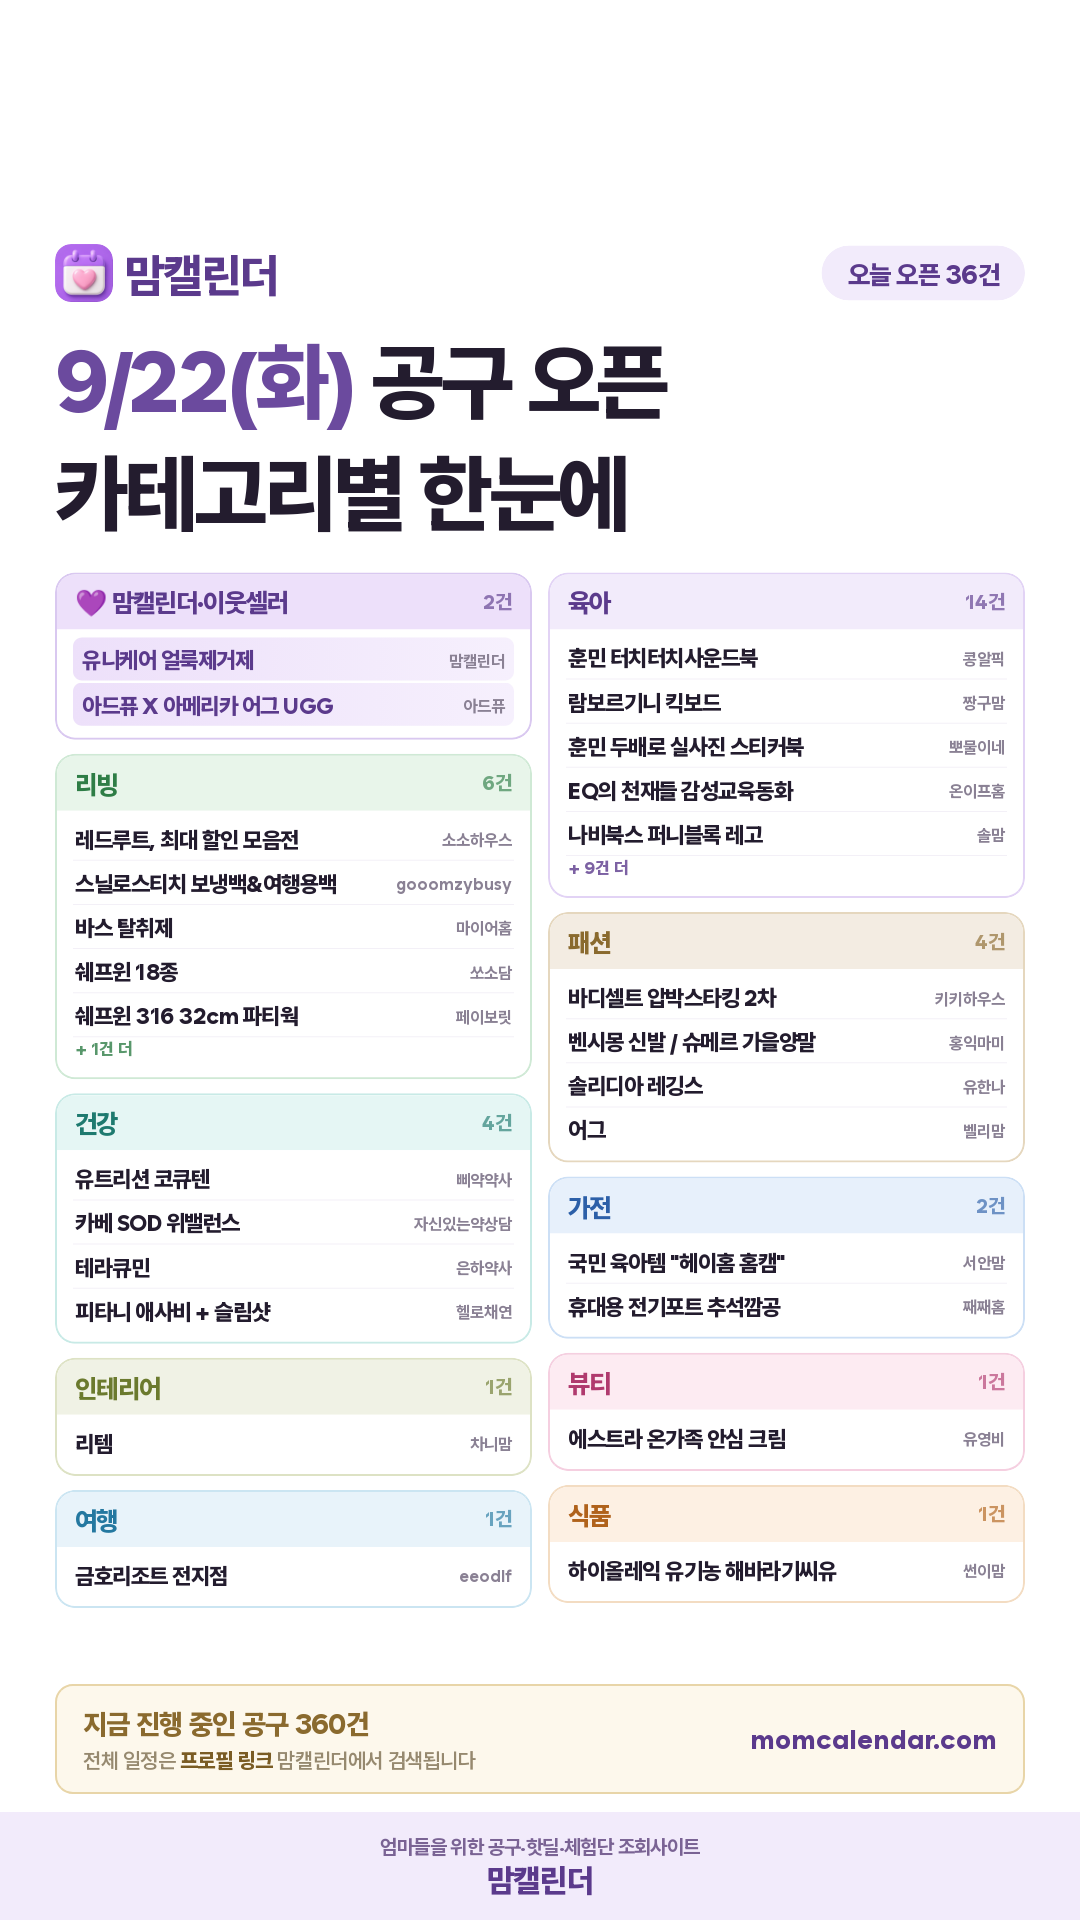
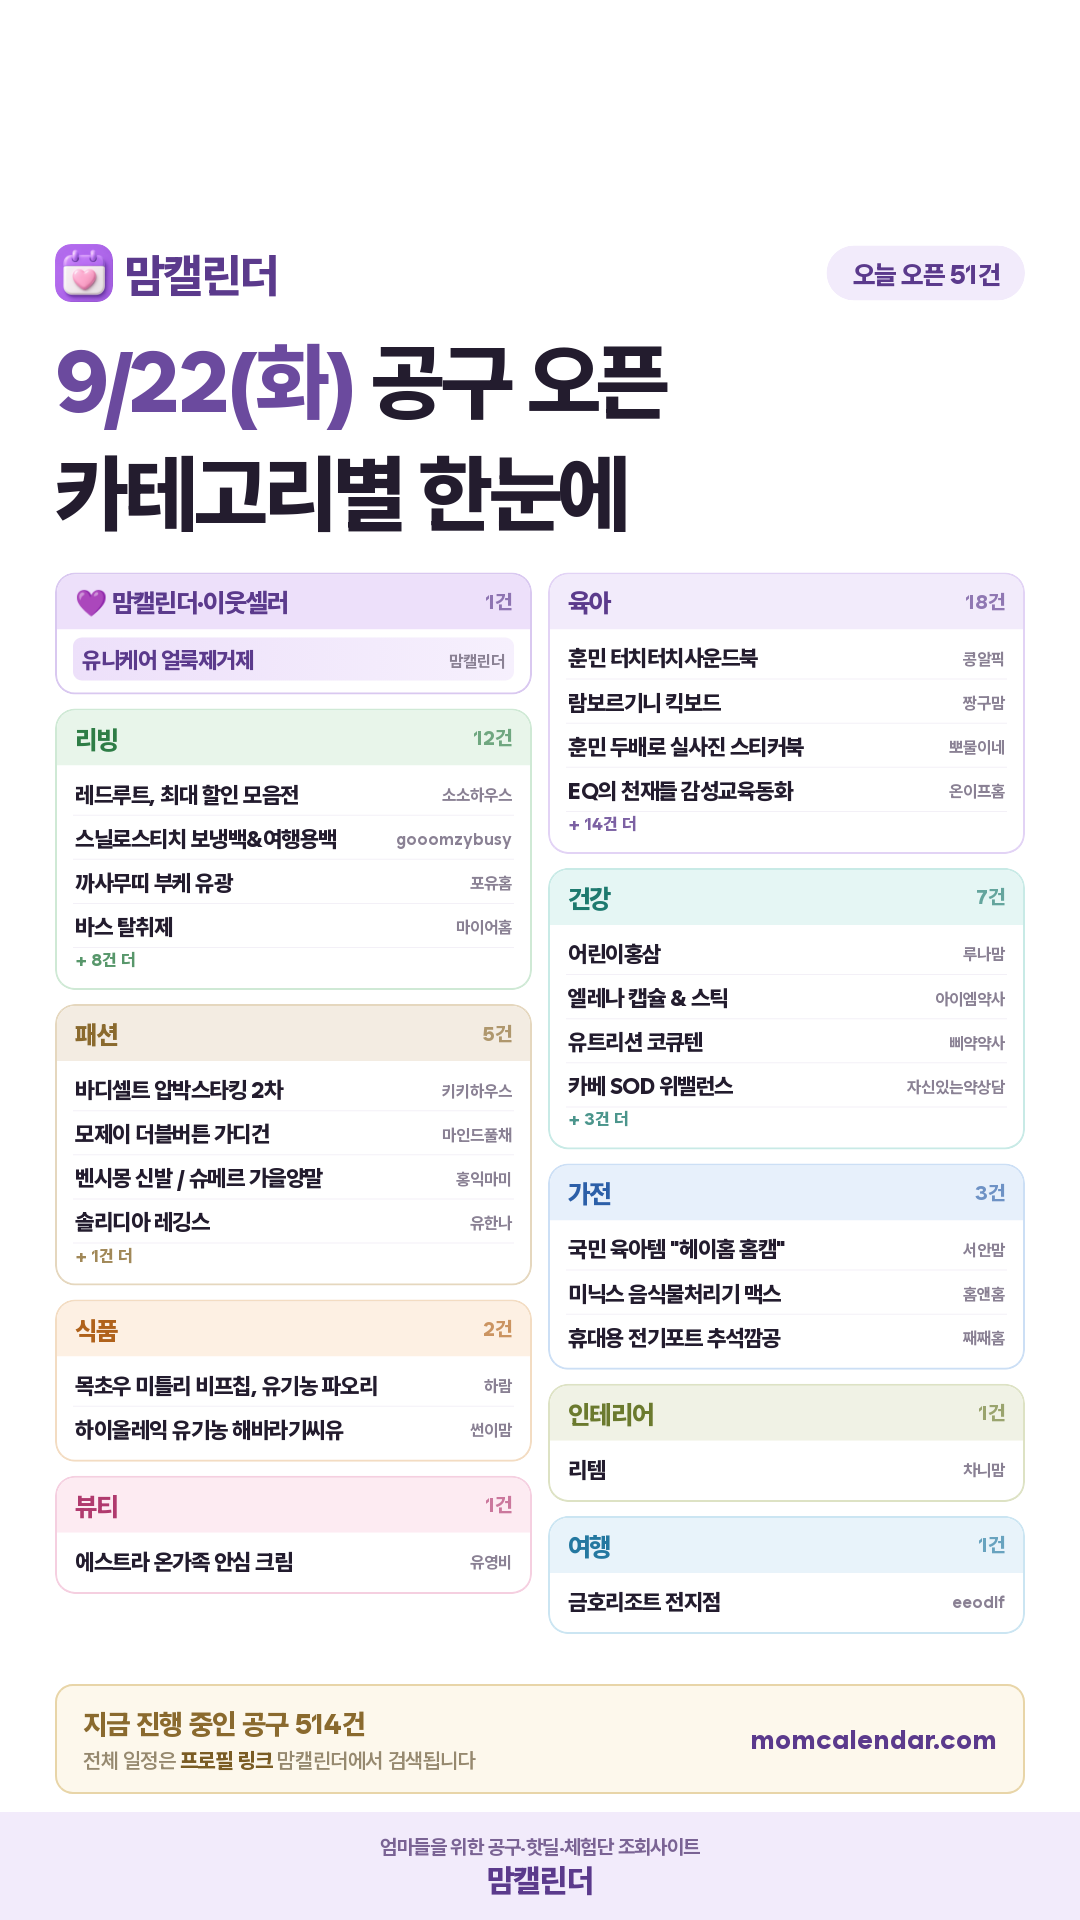
아침 인스타 카드 (2026-09-22)

Changed region(s): [[0.0306, 0.3438, 0.9472, 0.8438], [0.7944, 0.125, 0.9167, 0.1562], [0.275, 0.875, 0.3361, 0.9062]]

diff --git a/daily/2026-09-22.html b/daily/2026-09-22.html
@@ -19,7 +19,7 @@ textarea{width:100%;height:260px;border:1px solid #E3DCEF;border-radius:10px;pad
 .todo p{font-size:12.5px;color:#6B6379;line-height:1.75;margin-top:6px}
 .todo a{color:#5B2E8C;font-weight:700}
 </style></head><body>
-<div class="hd"><div class="wrap"><h1>9월 22일(화) 인스타 카드</h1><p>카테고리 일정 · opens 36 · ends 44</p></div></div>
+<div class="hd"><div class="wrap"><h1>9월 22일(화) 인스타 카드</h1><p>카테고리 일정 · opens 51 · ends 57</p></div></div>
 <div class="wrap">
   
   <div class="card"><img src="./2026-09-22.png" alt="오늘 공구 카드"></div>
@@ -27,13 +27,12 @@ textarea{width:100%;height:260px;border:1px solid #E3DCEF;border-radius:10px;pad
   <div class="card">
     <textarea id="cap" readonly>오늘 뭐 열리나 궁금하셨죠? 카테고리별로 정리했어요
 
-9월 22일(화) 공구 오픈 36건 · 마감 44건
+9월 22일(화) 공구 오픈 51건 · 마감 57건
 
 ━━━━━━━━━━━━━━
 
 💜 맘캘린더·이웃셀러
 · 유니케어 얼룩제거제 — 맘캘린더 @momcal_ (~9/25)
-· 아드퓨 X 아메리카 어그 UGG — 아드퓨 @atelier.de.purete (~9/28)
 
 🧸 육아
 · 훈민 터치터치사운드북 — 콩알픽 (~9/28)
@@ -44,36 +43,51 @@ textarea{width:100%;height:260px;border:1px solid #E3DCEF;border-radius:10px;pad
 · 또비앙또 미아방지가방 — 우유맘 (~9/25)
 · 래디어스 — 이준맘(이보람) (~9/25)
 · 리틀피기 가을 신상 런칭 — 두둥맘 (~9/27)
+· 바바북스 명화 랜덤2권 — 룰루맘 (~9/25)
+· 사파 플레이어 &amp; 슈심송·페파피그 DVD — 떠우엄마 (~9/28)
+· 아람 세계 명작 — 초초쌤 (~9/28)
+· 옴모크레용 6색 &amp; 12색 &amp; 스케치북 — 이현찰퐁맘 (~9/25)
 · 요거쪽쪽 — 산들맘 (~9/25)
-· 인라인 스케이트 — 리틀주니 (~9/28)
-· 주니 기저귀팬티 — 애프리 (~9/27)
-· 킨즈 마이베이비북 — 메이브온 (~9/25)
-· 킨즈n르베르 원목교구 — 리아곰 (~9/25)
-· 하우투캐치 — 류둥이네 (~9/25)
+…외 5건
 
 🏠 리빙
 · 레드루트, 최대 할인 모음전 — 소소하우스 (~9/23)
 · 스닐로스티치 보냉백&amp;여행용백 — gooomzybusy (~9/25)
+· 까사무띠 부케 유광 — 포유홈 (~9/26)
 · 바스 탈취제 — 마이어홈 (~9/27)
+· 바스 특별 — 베러심플 (~9/25)
 · 쉐프윈 18종 — 쏘소담 (~9/25)
 · 쉐프윈 316 32cm 파티웍 — 페이보릿 (~9/25)
+· 아이앤어스 3챔버&amp;독일더마 캡슐세제 — 셔니 (~9/25)
+· 알텐바흐 엑스쿠첸 316Ti 저압냄비 — 지니하우스 (~9/25)
+· 퍼기 무연마 스텐 설거지통+타공판 세트 — 마리에뜰 (~9/28)
 · 프로쉬 기획전 — 블즈 (~9/24)
+· N천원대 멀티나이프 — salguhome11 (~9/27)
+
+💊 건강
+· 어린이홍삼 — 루나맘 (~9/25)
+· 엘레나 캡슐 &amp; 스틱 — 아이엠약사 (~9/25)
+· 유트리션 코큐텐 — 삐약약사 (~9/28)
+· 카베 SOD 위밸런스 — 자신있는약상담 (~9/28)
+· 테라큐민 — 은하약사 (~9/28)
+· 트루엔 아르기닌 반값 — 남약사 (~9/28)
+· 피타니 애사비 + 슬림샷 — 헬로채연 (~9/28)
 
 👕 패션
 · 바디셀트 압박스타킹 2차 — 키키하우스 (~9/26)
+· 모제이 더블버튼 가디건 — 마인드풀채 (~9/25)
 · 벤시몽 신발 / 슈메르 가을양말 — 홍익마미 (~9/24)
 · 솔리디아 레깅스 — 유한나 (~9/29)
 · 어그 — 벨리맘 (~9/27)
 
-💊 건강
-· 유트리션 코큐텐 — 삐약약사 (~9/28)
-· 카베 SOD 위밸런스 — 자신있는약상담 (~9/28)
-· 테라큐민 — 은하약사 (~9/28)
-· 피타니 애사비 + 슬림샷 — 헬로채연 (~9/28)
-
 🔌 가전
 · 국민 육아템 "헤이홈 홈캠" — 서안맘 (~9/24)
+· 미닉스 음식물처리기 맥스 — 홈앤홈 (~9/24)
 · 휴대용 전기포트 추석깜공 — 째째홈 (~9/25)
+
+🍱 식품
+· 목초우 미틀리 비프칩, 유기농 파오리 — 하람 (~9/27)
+· 하이올레익 유기농 해바라기씨유 — 썬이맘 (~9/25)
 
 🛋 인테리어
 · 리템 — 차니맘 (~9/26)
@@ -84,40 +98,20 @@ textarea{width:100%;height:260px;border:1px solid #E3DCEF;border-radius:10px;pad
 ✈ 여행
 · 금호리조트 전지점 — eeodlf (~9/26)
 
-🍱 식품
-· 하이올레익 유기농 해바라기씨유 — 썬이맘 (~9/25)
-
 ⏰ 오늘 마감
 · 에디슨 젓가락 골라담기 — 서점맘
 · 망고라이언 — 또후니맘
 · 쉐프윈 쿡웨어 18종 — 쏘소담
-· 그릇 정리대 7차 — 메이비홈(박보연)
-· 디즈니 로브후드 샤워가운 — 온그리
-· 방수 네임스티커 — 태브로맘
+· 올스텐 스윙 빨래바구니 — 지니하우스
 · 큐빅스 교구장 — 리로네
+· 누비앤타보 트레블러M — 선유맘
+· 그릇 정리대 7차 — 메이비홈(박보연)
+· 방수 네임스티커 — 태브로맘
 · 탁가온 유아식기 — 도담맘
 · 100억 질 유산균 · 크랜베리 7차 — 묘약사
-· 구증구포 꿀 흑도라지정과 — 헬로채연
-· 꼼데가르송 스트라이프 셔츠 — mimiwor
-· 누비앤타보 트레블러M — 선유맘
-· 닌자 블렌드보스 — 마리에뜰
-· 닥터체크 오메가3 블랙 — 명훈약사
-· 대전 아쿠아리움 — Hello롱초
-· 더리틀스 코큐텐부스터 반값 — 남약사
-· 데코아르 감성 테크 3종으로 — 주부콩
-· 디베르노 보냉백팩 — 솔정
-· 또또뻥 2차 — 소은맘
-· 락앤락 데켓 그릇 겸 냄비 — 케이에이치집
-· 리틀콩 가을 실내복 — 뽀민맘
-· 미스터데코 청소도구함 — 미르홈
-· 바스 탈취제 시리즈 — 마마홈
-· 베투키 비타씨씨 4차 — 약파더
-· 보니버스 아기체육관 — 도아로운
-· 블랙앤데커 대용량 고속믹서기 — 축복맘
-· 슈메르 아기양말+스카프 — 서연맘
-· 시크릿키즈 가을옷 모음전 — 채쓰맘
-· 아리얼 클렌징 티슈 2차 — 마이어홈
-…외 15건
+· 26FW 신상품 성인/키즈 긴팔 잠옷 세트 — 밍융맘
+· 2탈모앰플+ 캡슐 — j.on___
+…외 45건
 
 
 ━━━━━━━━━━━━━━
@@ -138,12 +132,12 @@ textarea{width:100%;height:260px;border:1px solid #E3DCEF;border-radius:10px;pad
 ⚠ 공구 일정은 판매자 사정에 따라 변경·조기마감될 수 있어요.
 
 #맘캘린더 #공구일정 #육아공구 #9월22일공구 #오늘의공구 #육아정보 #공구오픈 #육아일상 #영양제 #아기간식 #놀잇감 #공구오픈일정</textarea>
-    <div class="meta">2183자</div>
+    <div class="meta">2167자</div>
     <button class="btn btn2" onclick="cp('cap','캡션')">캡션 복사</button>
   </div>
   <div class="card">
     <div class="meta" style="margin:0 0 8px;font-weight:800;color:#5B2E8C">네이버 블로그용 (blog.naver.com/momcal) — 수정해서 쓰셔도 돼요</div>
-    <textarea id="btitle" style="height:54px">9월 22일(화) 오늘의 공구 일정 총정리 | 휴대용 전기포트·애필리프 나트륨컷·유트리션·카베 공구 오픈</textarea>
+    <textarea id="btitle" style="height:54px">9월 22일(화) 오늘의 공구 일정 총정리 | 미닉스·휴대용·애필리프·어린이홍삼·엘레나 공구 오픈</textarea>
     <button class="btn btn2" onclick="cp('btitle','블로그 제목')">블로그 제목 복사</button>
     <textarea id="bbody" style="margin-top:9px">
 
@@ -170,10 +164,10 @@ https://open.kakao.com/o/gr2kJhCh
 
 ─────────────
 
-9월 22일(화), 오늘 문 여는 공동구매 38건이에요. 카테고리별로 보기 좋게 정리했어요.
-오늘 끝나는 공구가 58건이라 아래쪽도 같이 확인해 보세요.
+9월 22일(화), 오늘 문 여는 공동구매 54건이에요. 카테고리별로 보기 좋게 정리했어요.
+오늘 끝나는 공구가 73건이라 아래쪽도 같이 확인해 보세요.
 
-■ 오늘 오픈하는 공구 38건
+■ 오늘 오픈하는 공구 54건
 
 [육아]
 · EQ의 천재들 감성교육동화 — 온이프홈 (~9/27 마감)
@@ -182,6 +176,10 @@ https://open.kakao.com/o/gr2kJhCh
 · 람보르기니 킥보드 — 짱구맘 (~9/25 마감)
 · 래디어스 — 이준맘(이보람) (~9/25 마감)
 · 리틀피기 가을 신상 런칭 — 두둥맘 (~9/27 마감)
+· 바바북스 명화 랜덤2권 — 룰루맘 (~9/25 마감)
+· 사파 플레이어 &amp; 슈심송·페파피그 DVD — 떠우엄마 (~9/28 마감)
+· 아람 세계 명작 — 초초쌤 (~9/28 마감)
+· 옴모크레용 6색 &amp; 12색 &amp; 스케치북 — 이현찰퐁맘 (~9/25 마감)
 · 요거쪽쪽 — 산들맘 (~9/25 마감)
 · 인라인 스케이트 — 리틀주니 (~9/28 마감)
 · 주니 기저귀팬티 — 애프리 (~9/27 마감)
@@ -193,23 +191,33 @@ https://open.kakao.com/o/gr2kJhCh
 · 훈민 터치터치사운드북 — 콩알픽 (~9/28 마감)
 
 [리빙]
+· N천원대 멀티나이프 — salguhome11 (~9/27 마감)
+· 까사무띠 부케 유광 — 포유홈 (~9/26 마감)
 · 레드루트, 최대 할인 모음전 — 소소하우스 (~9/23 마감)
 · 바스 탈취제 — 마이어홈 (~9/27 마감)
+· 바스 특별 — 베러심플 (~9/25 마감)
 · 쉐프윈 18종 — 쏘소담 (~9/25 마감)
 · 쉐프윈 316 32cm 파티웍 — 페이보릿 (~9/25 마감)
 · 스닐로스티치 보냉백&amp;여행용백 — gooomzybusy (~9/25 마감)
-· 아드퓨 X 아메리카 어그 UGG — 아드퓨 (~9/28 마감)
+· 아이앤어스 3챔버&amp;독일더마 캡슐세제 — 셔니 (~9/25 마감)
+· 알텐바흐 엑스쿠첸 316Ti 저압냄비 — 지니하우스 (~9/25 마감)
 · 유니케어 얼룩제거제 — 맘캘린더 (~9/25 마감)
+· 퍼기 무연마 스텐 설거지통+타공판 세트 — 마리에뜰 (~9/28 마감)
 · 프로쉬 기획전 — 블즈 (~9/24 마감)
 
 [식품]
+· 목초우 미틀리 비프칩, 유기농 파오리 — 하람 (~9/27 마감)
 · 하이올레익 유기농 해바라기씨유 — 썬이맘 (~9/25 마감)
 
 [건강]
 · 애필리프 나트륨컷 — 유한나 (~9/29 마감)
+· 어린이홍삼 — 루나맘 (~9/25 마감)
+· 엘레나 캡슐 &amp; 스틱 — 아이엠약사 (~9/25 마감)
 · 유트리션 코큐텐 — 삐약약사 (~9/28 마감)
 · 카베 SOD 위밸런스 — 자신있는약상담 (~9/28 마감)
 · 테라큐민 — 은하약사 (~9/28 마감)
+· 트루엔 아르기닌 반값 — 남약사 (~9/28 마감)
+· 트루엔 아르기닌 퍼포먼스5000 — 남약사 (~9/28 마감)
 · 피타니 애사비 + 슬림샷 — 헬로채연 (~9/28 마감)
 
 [뷰티]
@@ -217,9 +225,11 @@ https://open.kakao.com/o/gr2kJhCh
 
 [가전]
 · 국민 육아템 "헤이홈 홈캠" — 서안맘 (~9/24 마감)
+· 미닉스 음식물처리기 맥스 — 홈앤홈 (~9/24 마감)
 · 휴대용 전기포트 추석깜공 — 째째홈 (~9/25 마감)
 
 [패션]
+· 모제이 더블버튼 가디건 — 마인드풀채 (~9/25 마감)
 · 바디셀트 압박스타킹 2차 — 키키하우스 (~9/26 마감)
 · 벤시몽 신발 / 슈메르 가을양말 — 홍익마미 (~9/24 마감)
 · 솔리디아 레깅스 — 유한나 (~9/29 마감)
@@ -231,8 +241,10 @@ https://open.kakao.com/o/gr2kJhCh
 [인테리어]
 · 리템 — 차니맘 (~9/26 마감)
 
-■ 오늘 끝나는 공구 58건
+■ 오늘 끝나는 공구 73건
 · 100억 질 유산균 · 크랜베리 7차 — 묘약사
+· 26FW 신상품 성인/키즈 긴팔 잠옷 세트 — 밍융맘
+· 2탈모앰플+ 캡슐 — j.on___
 · 구증구포 꿀 흑도라지정과 — 헬로채연
 · 그릇 정리대 7차 — 메이비홈(박보연)
 · 꼼데가르송 스트라이프 셔츠 — mimiwor
@@ -244,12 +256,16 @@ https://open.kakao.com/o/gr2kJhCh
 · 더리틀스 코큐텐부스터 반값 — 남약사
 · 데코아르 감성 테크 3종으로 — 주부콩
 · 데코아르 멜로우 비비드 무선 글라스 — 디유
+· 독일 마그네슘/칼디케이 — 시크드
+· 돌잡이 시리즈 — 서남매맘
 · 디베르노 보냉백팩 — 솔정
 · 디즈니 로브후드 샤워가운 — 온그리
 · 또또뻥 2차 — 소은맘
 · 락앤락 데켓 그릇 겸 냄비 — 케이에이치집
-· 리틀콩 가을 실내복 — 도현맘
 · 리틀콩 가을 실내복 — 뽀민맘
+· 리틀콩 가을 실내복 — 도현맘
+· 리틀콩 가을실내복 1만원초반 — 우리우
+· 맛있는 오일파스타 레시피 — 게으른김주부
 · 망고라이언 — 또후니맘
 · 미스터데코 청소도구함 — 미르홈
 · 바스 탈취제 — 디유
@@ -259,15 +275,18 @@ https://open.kakao.com/o/gr2kJhCh
 · 베투키 비타씨씨 4차 — 약파더
 · 보니버스 아기체육관 — 도아로운
 · 블랙앤데커 대용량 고속믹서기 — 축복맘
+· 송편 떡만들기 키트 — 희야
 · 쉐프윈 스마트쿠커 올인원 냄비 — 해나하우스
 · 쉐프윈 쿡웨어 18종 — 쏘소담
 · 슈메르 아기양말+스카프 — 서연맘
+· 스폰텍스 수세미 — 디유
 · 시크릿키즈 가을옷 모음전 — 채쓰맘
 · 아리얼 클렌징 티슈 2차 — 마이어홈
 · 에끌라뒤땅 물광앰플 — 선선부부하우스
 · 에디슨 모음전 — 라리맘
 · 에디슨 젓가락 골라담기 — 서점맘
 · 엔포드 호텔 — 우니동동
+· 오프아워 잠옷 — 쀼맘
 · 오하루 서리태 콩물 최화정두유 — 령아홈트
 · 올스텐 수세미거치대 — 라라홈
 · 올스텐 스윙 빨래바구니 — 지니하우스
@@ -275,30 +294,36 @@ https://open.kakao.com/o/gr2kJhCh
 · 우리아이 리포좀비타민C — 약파더
 · 위키드랩 — 유한나
 · 의왕 디스커버스 — eeodlf
+· 잼바라 디지털 현미경 — 포포네
 · 주니 입모아컵 — 도치맘
+· 주애*한스테이블 — 김주애
 · 짐샌더슨 롤링카트 — 윤우가자라는집
 · 찐티보리 — 선유맘
 · 착즙하는남자 — ming_9.3
-· 큐빅스 교구장 — 3__meow
 · 큐빅스 교구장 — 리로네
+· 큐빅스 교구장 — 3__meow
 · 크레욜라 모음전 — 니니맘
 · 클로란 드라이샴푸 — 쭈드레서
 · 키키유 오림대장 대모험 세트 — 서점맘
 · 탁가온 유아식기 — 도담맘
+· 티니핑 쓰기패드 — 쁨마미
 · 푸꾸옥 에어텔 — 제니져니
+· 퓨리톡스 세정티슈&amp;톡톡크림 — 아리홈
 · 퓨어젠 알래스카츄어블 오메가3 — 명훈약사
 · 플라워가든·오션월드 블럭 — 주환루아단아맘
 · 피토페시아 — 유한나
+· 하나코 도마 — 감감홈
 · 한우 수제 떡갈비 선물세트 — 꿍맘
+· 호주 어그 — 위캔드홈
 
-■ 오늘의 브랜드: 휴대용
-· 휴대용 공구는 인스타 셀러들이 기간을 정해 여는 공동구매예요. 최근에는 선유맘, 째째홈, 다니랑 님이 진행했어요.
+■ 오늘의 브랜드: 미닉스
+· 미닉스 공구는 인스타 셀러들이 기간을 정해 여는 공동구매예요. 최근에는 홈앤홈, 러브지나, 원살림 님이 진행했어요.
 · 가격은 오픈일에 셀러 계정 공지로 공개돼요. 같은 제품이라도 셀러·구성에 따라 조금씩 달라서, 공지에서 확인하는 게 가장 정확해요.
-· 이번에 놓쳤다면 너무 아쉬워하지 마세요. 휴대용 공구는 보통 일정 간격을 두고 다시 열려요. 전체 일정은 여기서 → https://momcalendar.com
+· 이번에 놓쳤다면 너무 아쉬워하지 마세요. 미닉스 공구는 보통 일정 간격을 두고 다시 열려요. 전체 일정은 여기서 → https://momcalendar.com
 
 ※ 수량이 빨리 소진되면 예정보다 일찍 닫히기도 해요. 관심 있는 공구는 오픈일에 바로 확인하시는 게 좋아요.
 
-#공구일정 #인스타공구 #인스타공구일정 #공동구매 #오늘의공구 #육아공구 #육아템 #공구모음 #휴대용공구 #애필리프공구 #유트리션공구 #카베공구 #테라큐민공구 #피타니공구 #레드루트공구 #바스공구</textarea>
+#공구일정 #인스타공구 #인스타공구일정 #공동구매 #오늘의공구 #육아공구 #육아템 #공구모음 #미닉스공구 #휴대용공구 #애필리프공구 #어린이홍삼공구 #엘레나공구 #유트리션공구 #카베공구 #테라큐민공구</textarea>
     <button class="btn" onclick="cp('bbody','블로그 본문 전체')">블로그 본문 전체 복사 (태그 포함)</button>
     <div class="meta">순서: 사진 저장 → 블로그 앱 글쓰기 → 제목 붙여넣기 → 본문 붙여넣기 → 본문 맨 위에 사진 추가 → 발행. 끝의 #태그들은 자동으로 태그가 돼요</div>
   </div>

diff --git a/daily/today.html b/daily/today.html
@@ -1,14 +1,15 @@
 <!DOCTYPE html><html lang="ko"><head>
 <meta charset="UTF-8"><meta name="viewport" content="width=device-width,initial-scale=1">
 <meta name="robots" content="noindex,nofollow">
-<title>9/21(월) 오늘 공구 캘린더</title>
-<meta property="og:title" content="9/21(월) 오늘 공구 캘린더">
-<meta property="og:image" content="https://momcalendar.com/daily/today.png?v=2026-09-21">
+<title>9/22(화) 오늘 공구 캘린더</title>
+<meta property="og:title" content="9/22(화) 오늘 공구 캘린더">
+<meta property="og:image" content="https://momcalendar.com/daily/today.png?v=2026-09-22">
 <style>body{margin:0;background:#F6F4F9;font-family:-apple-system,BlinkMacSystemFont,'Apple SD Gothic Neo','Malgun Gothic',sans-serif;text-align:center}
 h1{font-size:17px;color:#4A1A78;padding:14px 0 10px;margin:0}
 img{width:100%;max-width:540px;display:block;margin:0 auto;border-radius:12px;box-shadow:0 2px 12px rgba(96,32,144,.12)}
 p{font-size:12.5px;color:#8A8A8A;padding:12px}</style></head><body>
-<h1>9/21(월) 오늘 공구 캘린더</h1>
-<img src="./today.png?v=1789950537353" alt="9/21(월) 오늘 공구 캘린더">
+
+<h1>9/22(화) 오늘 공구 캘린더</h1>
+<img src="./today.png?v=1790039262342" alt="9/22(화) 오늘 공구 캘린더">
 <p>매일 아침 자동으로 새로 그려집니다 · <a href="https://momcalendar.com">맘캘린더</a></p>
 </body></html>

diff --git a/daily/index.html b/daily/index.html
@@ -1,1 +1,1 @@
-<!DOCTYPE html><meta charset="UTF-8"><meta http-equiv="refresh" content="0;url=./2026-09-21.html">
+<!DOCTYPE html><meta charset="UTF-8"><meta http-equiv="refresh" content="0;url=./2026-09-22.html">
